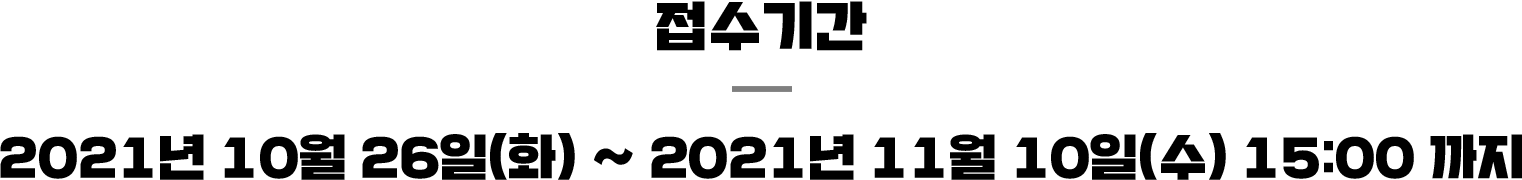
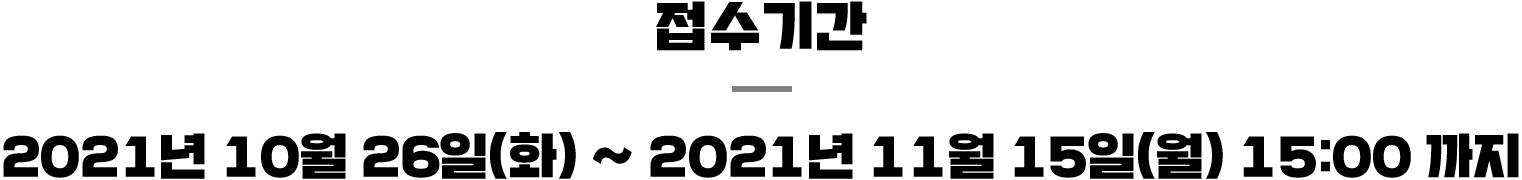
수정본

Changed region(s): [[0.0, 0.7222, 1.0, 1.0]]

diff --git a/views/html/index.html b/views/html/index.html
@@ -46,14 +46,12 @@
                 <ul class="flex-box flex-spc__end flex-align__cnt nav-menu-list">
                     <!-- <li><a href="index.html" title="메인 페이지로 이동하기" class="nav-menu"><mark class="highlight-txt__box"><span class="highlight-txt">HOME</span></mark></a></li> -->
                     <li class="sub_menu">
-                        <!-- 1020 label 수정 -->
                         <a href="javascript:void(0);" title="공모전 안내" class="nav-menu sub"><mark
                                 class="highlight-txt__box"><span class="highlight-txt">공모전 안내</span></mark></a>
                         <ul class="sub-menus">
                             <li><a href="aboutVideo.html" title="공모 개요 페이지로 이동하기" class="nav-menu"><mark
                                         class="highlight-txt__box"><span class="highlight-txt">공모 개요</span></mark></a>
                             </li>
-                            <!-- 1020 label 수정 -->
                             <li><a href="subject.html" title="응모 주제 페이지로 이동하기" class="nav-menu"><mark
                                         class="highlight-txt__box"><span class="highlight-txt">응모 주제</span></mark></a>
                             </li>
@@ -61,11 +59,9 @@
                     </li>
                     <li><a href="applyLogin.html" title="접수/확인 페이지로 이동하기" class="nav-menu"><mark
                                 class="highlight-txt__box"><span class="highlight-txt">접수/확인</span></mark></a></li>
-                    <!-- 1020 label 수정 -->
                     <li><a href="vote-event.html" title="투표 이벤트로 이동하기" class="nav-menu"><mark
                                 class="highlight-txt__box"><span class="highlight-txt">투표 이벤트</span></mark></a></li>
                     <li class="sub_menu">
-                        <!-- 1020 label 수정 -->
                         <a href="javascript:void(0);" title="역대 수상작" class="nav-menu sub"><mark
                                 class="highlight-txt__box"><span class="highlight-txt">역대 수상작</span></mark></a>
                         <ul class="sub-menus">
@@ -122,7 +118,6 @@
                     <img src="../../content/images/main-keyvisual-tit2.png"
                         alt="[2021 제2회 대한지방흡입학회 콘텐츠 공모전] 빼틀(BBATTLE) - 지방흡입 수술로 자신을 극복한 사람들의 이야기를 콘텐츠로 만들어주세요"
                         class="kv-tit">
-                    <!-- 1020 label 수정 -->
                     <a href="subject.html" title="응모 주제 보러가기" class="bg-btn"><img
                             src="../../content/images/main-keyvisual-tit3-btn.png" alt="버튼 이미지"></a>
                     <div class="kv-tit bg">
@@ -333,19 +328,27 @@
     <!-- modal START -->
     <div class="modal-area" id="workMainModal" data-objmodal="workMainModal">
         <div class="modal-wrap modal-wrap__work-video main">
+            <!-- 1108 label 수정 -->
             <button class="close-modal-btn"></button>
-            <h4 class="text-image"><img src="../../content/images/main-modal-text.png" alt="제2회 대한지방흡입학회 콘텐츠 공모전 빼틀">
+            <!-- <h4 class="text-image"><img src="../../content/images/main-modal-text.png" alt="제2회 대한지방흡입학회 콘텐츠 공모전 빼틀">
             </h4>
-            <span class="image-box"><img src="../../content/images/main-modal-text2.png" alt="COMING SOON"></span>
-            <p class="text-box">
-                <span class="fw700">2021년 10월 26일(화)부터 접수가 가능합니다.</span><br>
+            <span class="image-box"><img src="../../content/images/main-modal-text2.png" alt="COMING SOON"></span> -->
+            <h4 class="work-video__tit">공모전 기간 연장 안내</h4>
+            <p class="text-box pt40 pb60">
+                <!-- <span class="fw700">2021년 10월 26일(화)부터 접수가 가능합니다.</span><br>
                 공모 내용은 '대한지방흡입학회'<br>
-                인스타그램 계정에서 확인하시기 바랍니다.
+                인스타그램 계정에서 확인하시기 바랍니다. -->
+                공모전 제출 마감일을<br />
+                아래와 같이 연장함을 알려드립니다<br /><br />
+
+                변경 전) 2021년 11월 10일(수) 15:00<br />
+                변경 후) 2021년 11월 15일(월) 15:00
             </p>
-            <div class="popup-go-btn">
+            <!-- <div class="popup-go-btn">
                 <a href="https://www.instagram.com/bbattle.contest" target="_blank" title="해당 사이트 바로가기" class="go-btn"
                     rel="noopener noreferrer"><img src="../../content/images/main-modal-btn.png" alt="바로가기"></a>
-            </div>
+            </div> -->
+            <!-- //1108 label 수정 -->
         </div> <!-- //modal wrap -->
     </div> <!-- //메인 상단 팝업 -->
     <div class="modal-area" id="workVideoYtbModal">
